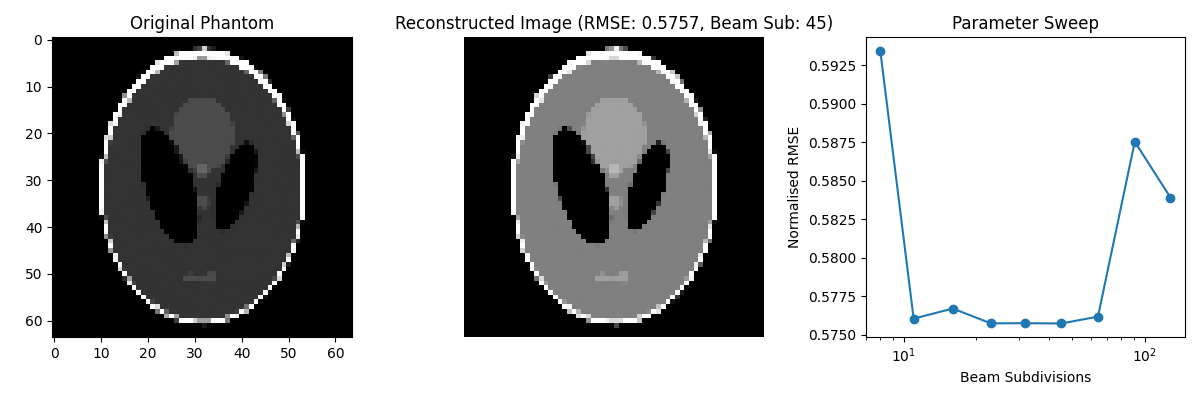
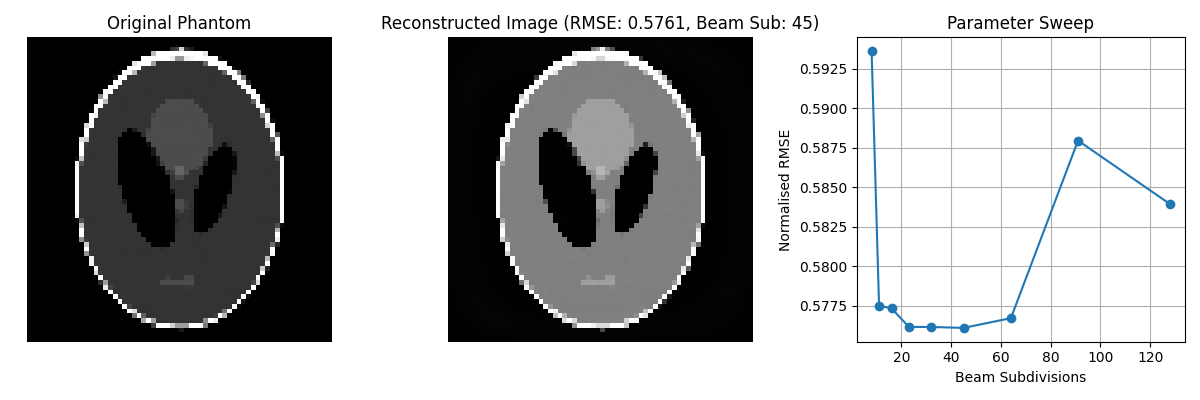
same as before

diff --git a/models/ART_param_test.py b/models/ART_param_test.py
@@ -22,7 +22,7 @@ def compute_rmse(a, b):
 
 
 ring_subdivisions = [360]
-beam_sizes = [64]
+beam_sizes = [128]
 beam_subdivisions = [8, 11, 16, 23, 32, 45, 64, 91, 128]
 fan_angles = [np.pi/4]
 iterations = [30]
@@ -88,6 +88,7 @@ plt.title(f"Reconstructed Image (RMSE: {best_rmse:.4f}, Beam Sub: {best_params['
 plt.axis('off')
 plt.subplot(1,3,3)
 plt.plot(beam_subdivisions, beam_sub_rmses, marker='o')
+plt.grid(True)
 plt.xlabel("Beam Subdivisions")
 plt.ylabel("Normalised RMSE")
 plt.title("Parameter Sweep")
